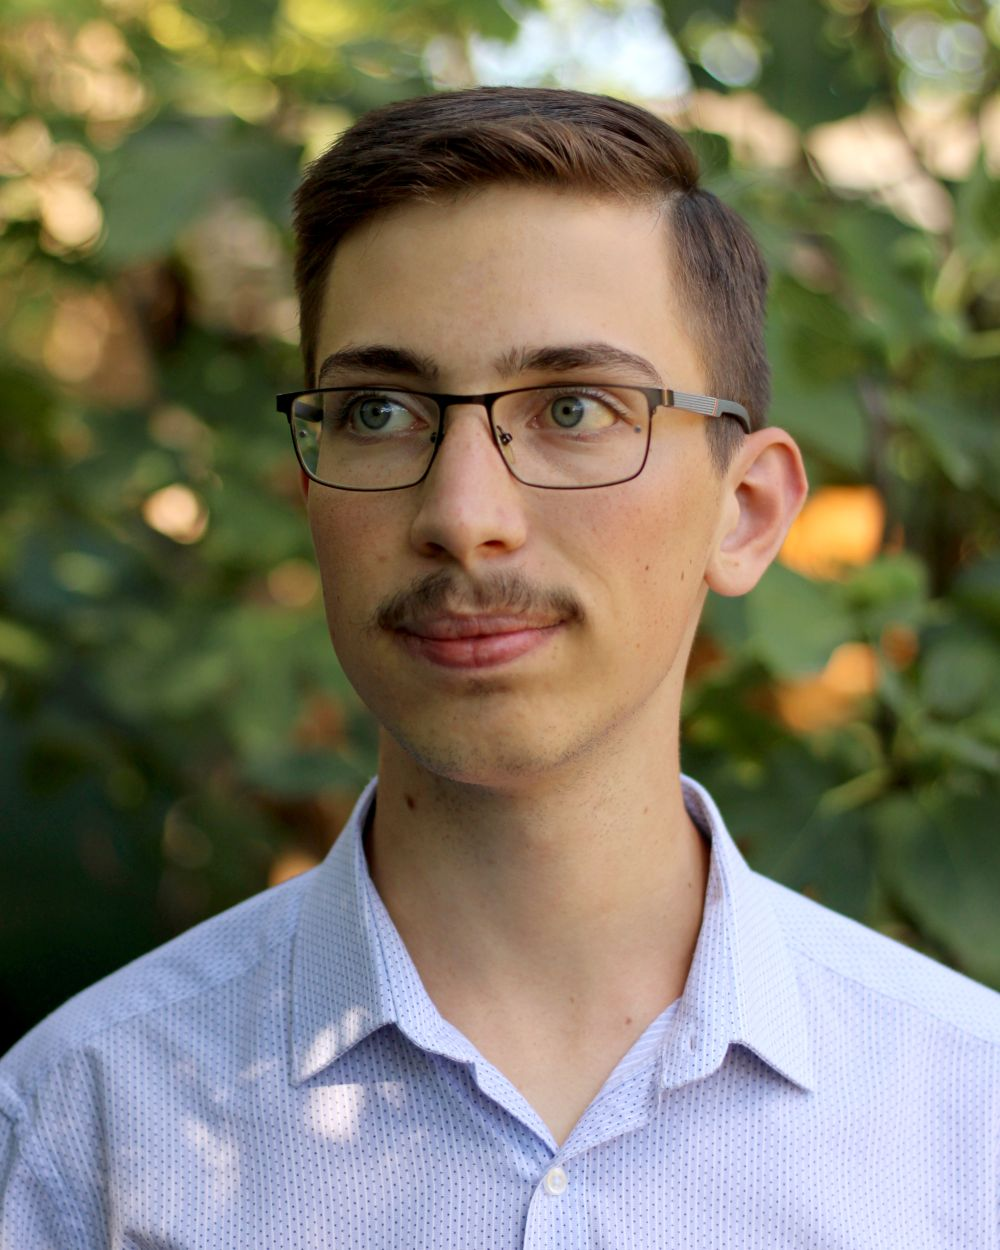
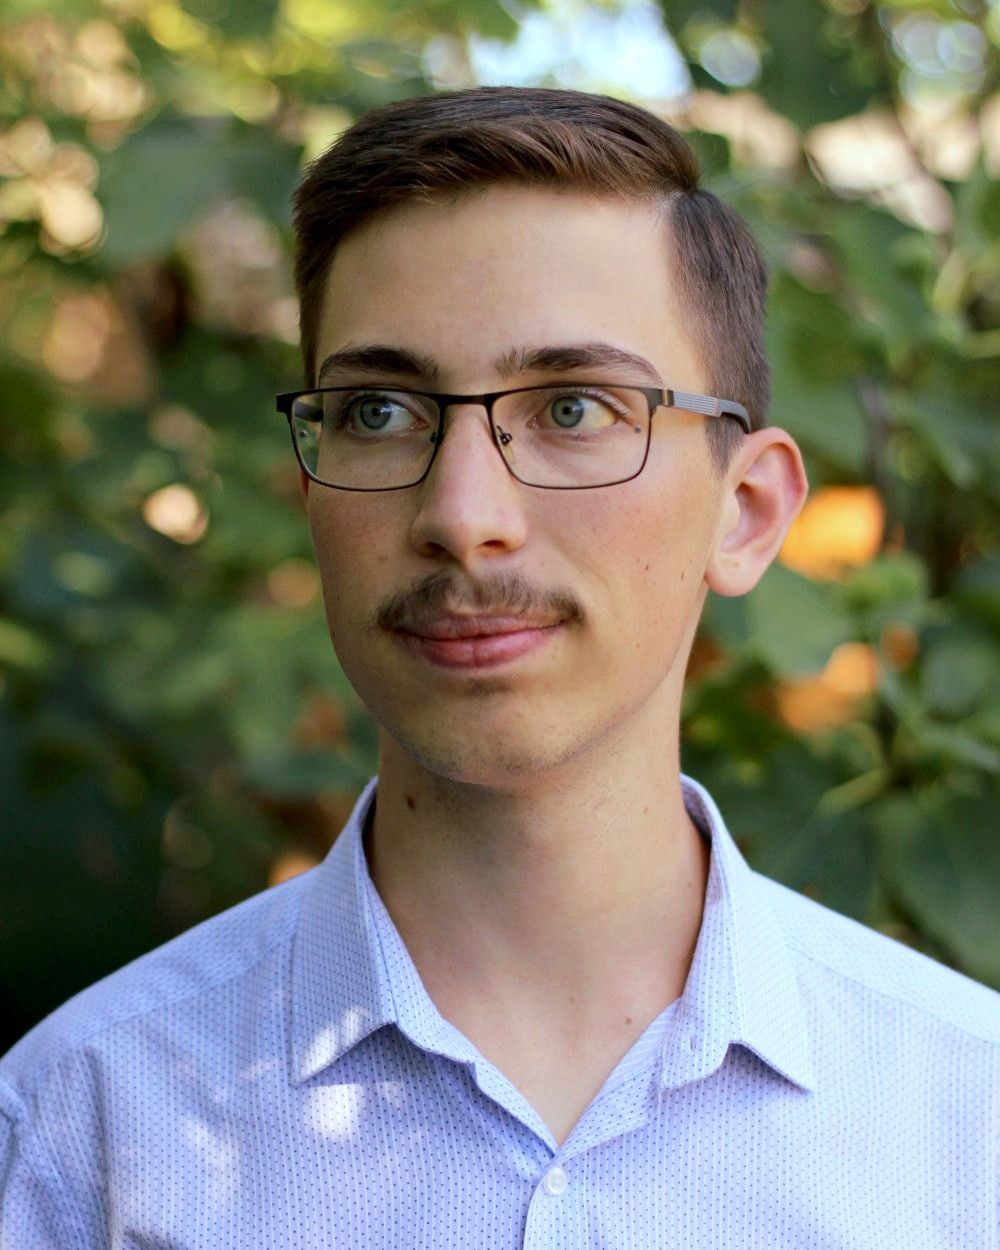
rightside done

diff --git a/homepage.css b/homepage.css
@@ -10,6 +10,12 @@
     box-sizing: border-box;
 }
 
+:root {
+    --sidebar-width: 26.8%;
+    --right-column-start: var(--sidebar-width);
+    --content-offset: 0px;
+}
+
 body {
     margin: 0;
     background-color: #efefef;
@@ -25,7 +31,7 @@ body {
 /* The full-bleed landscape photo (right column) */
 #layingContent {
     position: fixed;
-    inset: 0 0 0 26.8%;          /* fills the right 73.2% of the viewport */
+    inset: 0 0 0 var(--right-column-start);  /* keeps the homepage photo aligned with the other right-column pages */
     z-index: 0;
 }
 
@@ -34,6 +40,7 @@ body {
     height: 100%;
     object-fit: cover;
     border: 10px solid #efefef;
+    border-left: 0;
     opacity: 1;
     transition: opacity 2000ms ease;
     display: block;
@@ -109,7 +116,7 @@ body {
 
 body:has(#leftcontainer) {
     display: grid;
-    grid-template-columns: 26.8fr 73.2fr;
+    grid-template-columns: var(--sidebar-width) 1fr;
     grid-template-rows: 1fr;
     min-height: 100vh;
 }
@@ -152,6 +159,7 @@ body:has(#leftcontainer) {
     gap: 16px;
     align-self: start;
     margin-top: 8vh;
+    margin-left: var(--content-offset);
     height: 85vh;
     padding: 10px 10px 10px 0;
     overflow-x: scroll;
@@ -183,9 +191,10 @@ body:has(#leftcontainer) {
     align-self: start;
     width: 82.5%;            /* ~60.2% of full page → 60.2/73.2 ≈ 82.5% of the column */
     text-align: justify;
-    margin-top: 7%;
+    margin-top: 9%;
+    margin-left: 0;
     margin-right: 13%;       /* keeps the original visual offset */
-    padding: 30px;
+    padding: 30px 30px 30px 0;
 }
 
 #bemutatkozas p {
@@ -209,6 +218,7 @@ body:has(#leftcontainer) {
     position: fixed;
     z-index: 2;
     border: 10px solid #efefef;
+    border-left: 0;
     pointer-events: none;
     opacity: 1;
     object-fit: fill;

diff --git a/homepage.js b/homepage.js
@@ -62,16 +62,23 @@ function changePicture(pictureElement, pictures) {
     const pictureBounds = pictureElement.getBoundingClientRect();
     const nextImage = new Image();
 
+    pictureElement.style.border = "10px solid #efefef";
+    pictureElement.style.borderLeft = "0";
+
     oldPicture.removeAttribute("id");
     oldPicture.className = "picture-fade-overlay";
     oldPicture.style.left = `${pictureBounds.left}px`;
     oldPicture.style.top = `${pictureBounds.top}px`;
     oldPicture.style.width = `${pictureBounds.width}px`;
     oldPicture.style.height = `${pictureBounds.height}px`;
+    oldPicture.style.border = "10px solid #efefef";
+    oldPicture.style.borderLeft = "0";
     document.body.appendChild(oldPicture);
 
     nextImage.onload = () => {
         pictureElement.src = nextPicture;
+        pictureElement.style.border = "10px solid #efefef";
+        pictureElement.style.borderLeft = "0";
         pictureElement.style.opacity = "1";
         oldPicture.style.opacity = "0";
 
